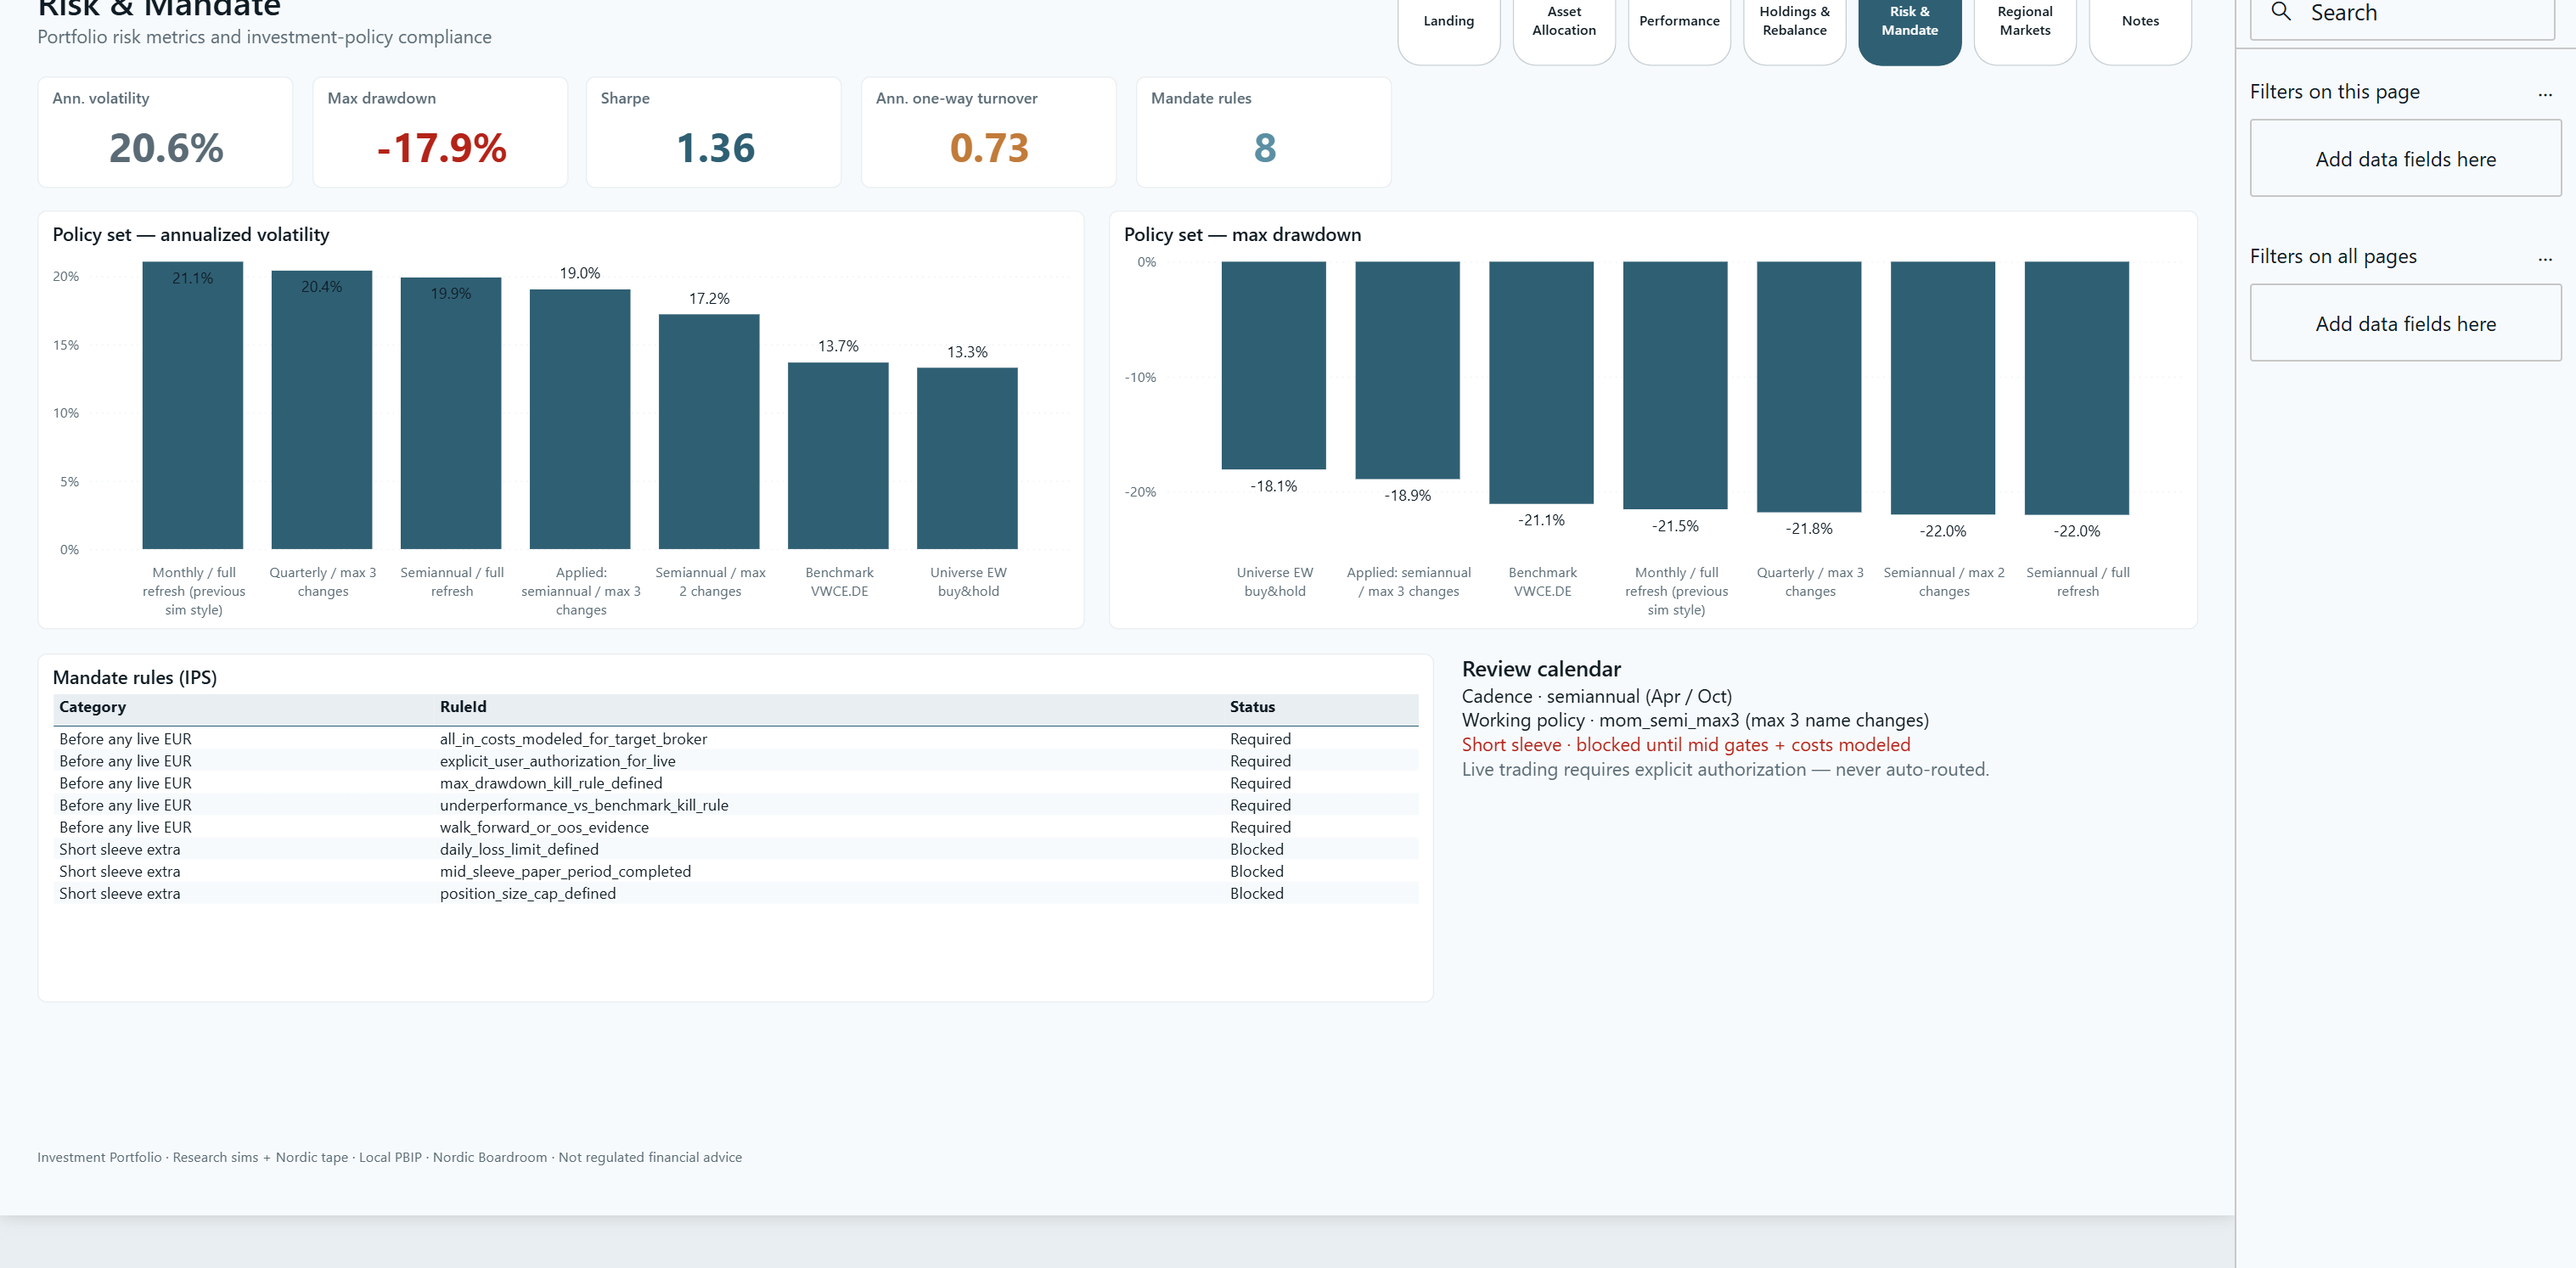
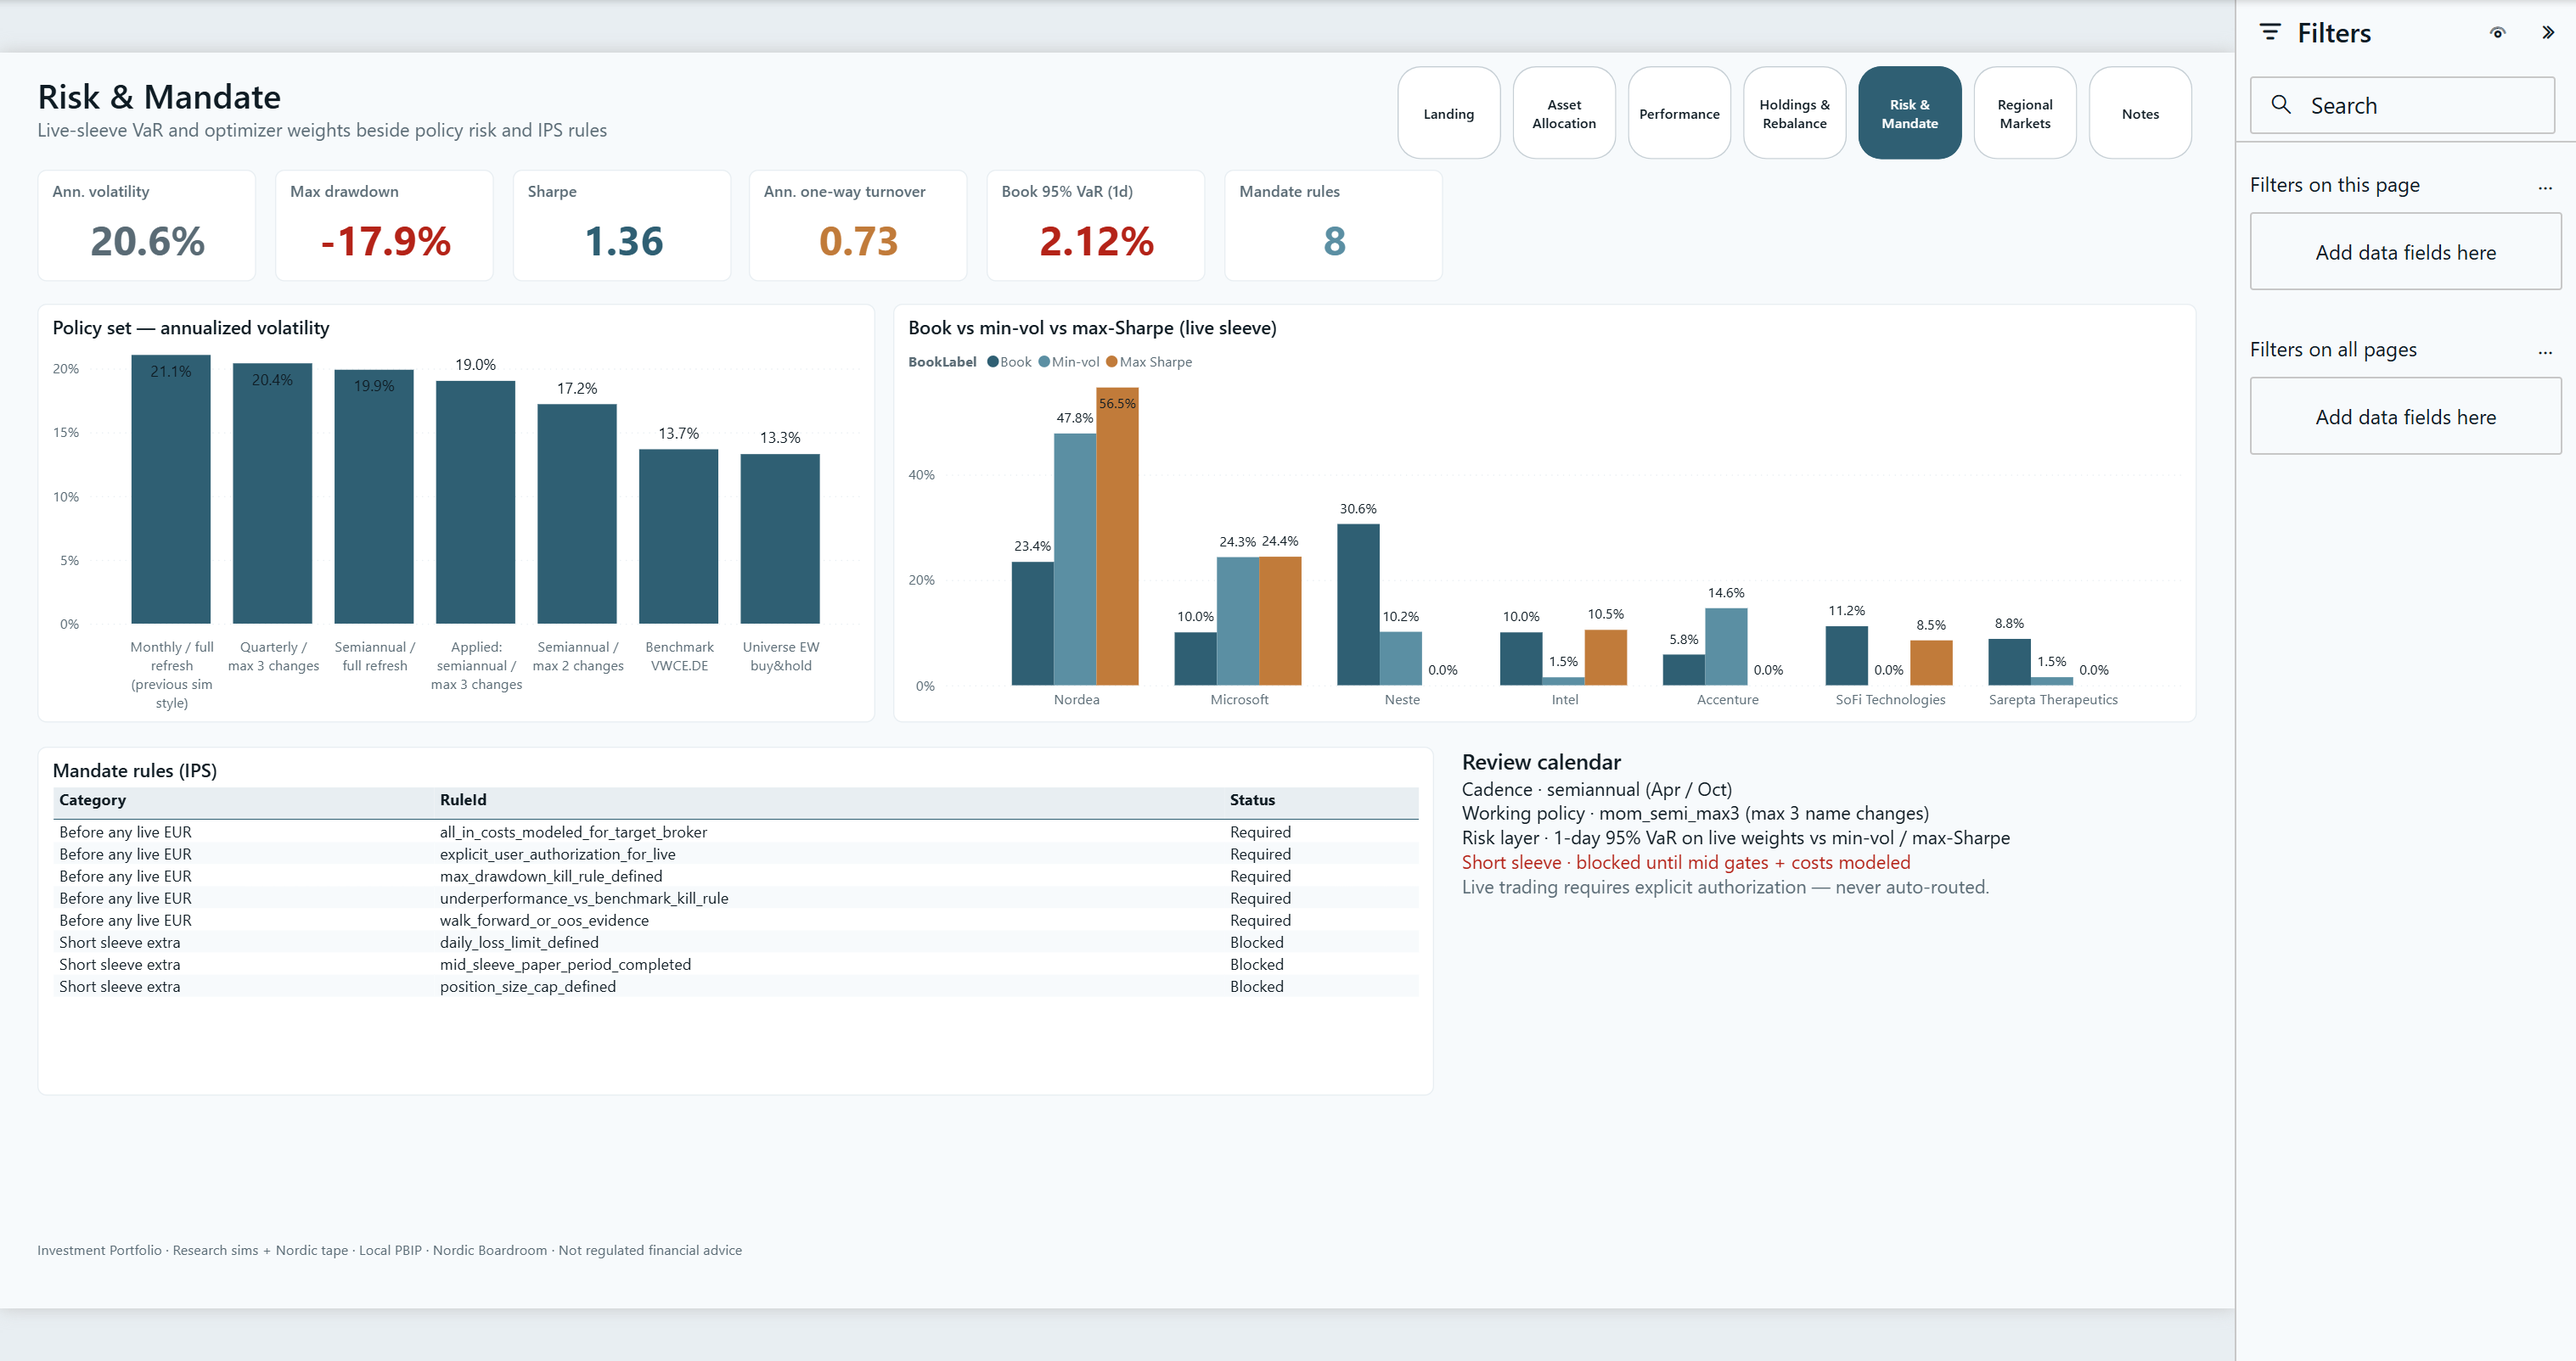
chore: sync Power BI portfolio showcase [skip ci]

diff --git a/src/content/power-bi-reports.ts b/src/content/power-bi-reports.ts
@@ -348,7 +348,7 @@ export const powerBiReports: PowerBiReport[] = [
       {
         id: "risk-mandate",
         label: "Risk & Mandate",
-        caption: "Vol / MDD · IPS rules · review calendar",
+        caption: "Vol / MDD · book 95% VaR · book vs optimizer weights · IPS rules",
         src: "/portfolio/power-bi/investing-desk/risk-mandate.png",
       },
       {
